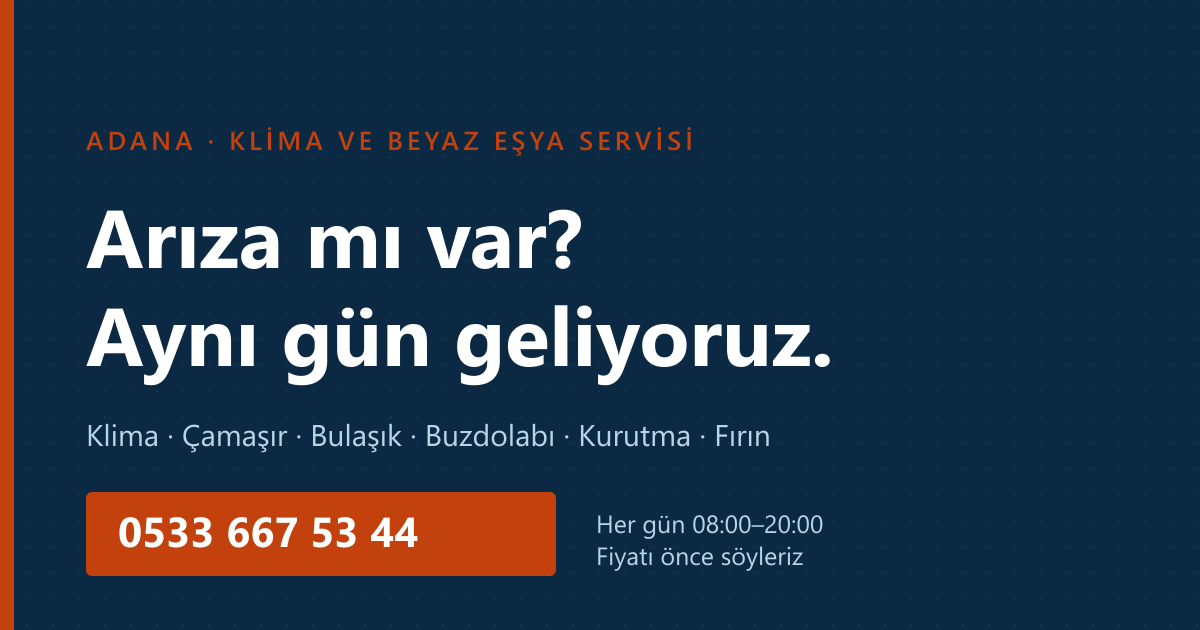
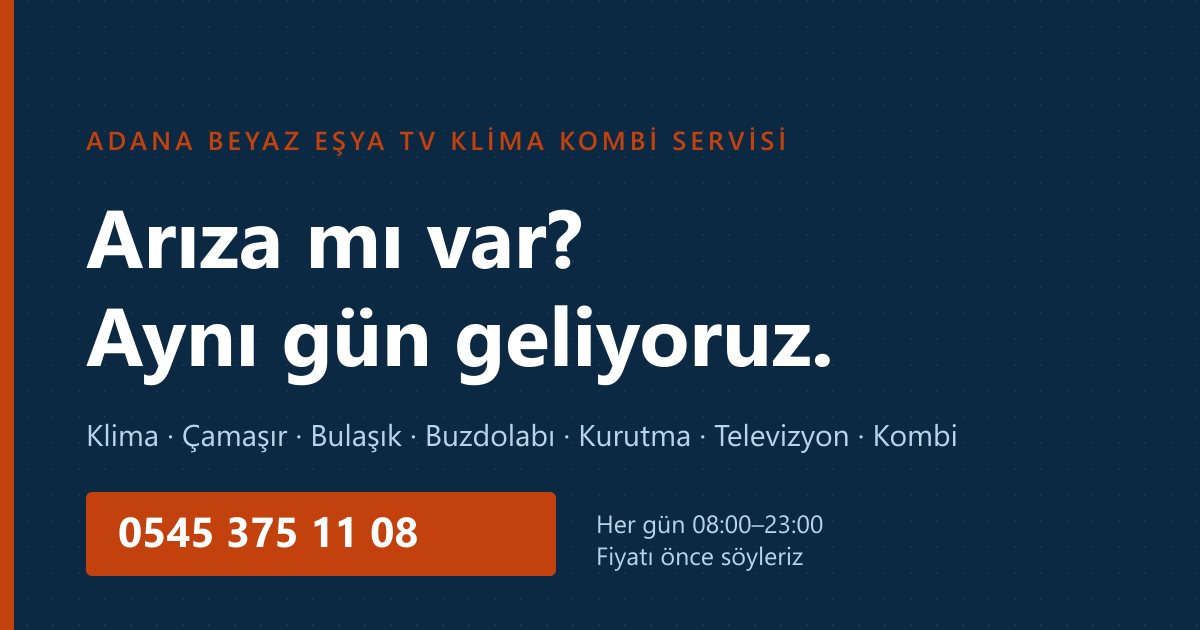
İsim "Adana Beyaz Eşya TV Klima Kombi Servisi", menüye TV, paylaşım görseli yenilendi
Sahibinin isteği. 12.08'de bu isim değişikliği mobilde kesildiği için
elenmişti; isim artık truncate yerine line-clamp-2 — mobilde iki satıra
iniyor, hiçbir genişlikte kesilmiyor, çubuk 65 px'te kaldı. Menüye "TV"
ikinci sıraya eklendi: 1024'te Klima · TV · Çamaşır, 1280'de altısı sığıyor
(iframe ile ölçüldü, çakışma ve taşma 0). En uzun sayfa başlığı 58 karakter.

og.png eskimişti: "Fırın" yazıyordu, TV ve kombi yoktu, saat 20:00'di.
tools/og-uret.mjs artık ad, saat ve cihaz satırını veriden okuyor.

diff --git a/src/lib/types.ts b/src/lib/types.ts
@@ -108,7 +108,7 @@ export interface Firma {
    * kullanılır, ekranda hiçbir yerde basılmaz.
    *
    * `kisaAd`'dan ayrı tutulmasının sebebi ikisinin FARKLI İŞ GÖRMESİ:
-   * - `kisaAd` ("Adana Klima & Beyaz Eşya Servisi") ziyaretçiye ne iş
+   * - `kisaAd` ("Adana Beyaz Eşya TV Klima Kombi Servisi") ziyaretçiye ne iş
    *   yaptığımızı anlatır ve tıklatır — sahibinin açık isteği (29.07.2026).
    * - `isletmeAdi` ("Çağrı Teknik Servis") Google'a KİM olduğumuzu söyler ve
    *   Haritalar profiliyle eşleşmesi gerekir.

diff --git a/src/lib/schema.ts b/src/lib/schema.ts
@@ -89,7 +89,7 @@ export function hvacBusiness(site: URL) {
       iki farklı ad gösterirsek Google site ile profili eşleştirmekte tereddüt
       eder ve bağ zayıflar.
 
-      Ekranda basılan ad bu DEĞİL — orası `kisaAd` ("Adana Klima & Beyaz Eşya
+      Ekranda basılan ad bu DEĞİL — orası `kisaAd` ("Adana Beyaz Eşya TV Klima
       Servisi") ve öyle kalacak (sahibinin kararı, 29.07.2026): ziyaretçiye ne
       iş yaptığımızı anlatan ad tıklatan addır. İkisi farklı iş görüyor.
 

diff --git a/CLAUDE.md b/CLAUDE.md
@@ -480,7 +480,34 @@ arıza/çözümden hemen sonra, çünkü "cihazımda bu arıza var" dedikten son
 soru "benim markama bakıyor mu?" oluyor. Zemini **beyaz**: komşuları zemin ve
 lacivert, renk ritmi bozulmuyor. Ayrıntı D3'te.
 
-**Üst çubuktaki isim `kisaAd`, menü ise CİHAZ ÇEŞİTLİLİĞİ gösterir (12.08.2026).**
+**⚠ 01.10.2026 — İSİM DEĞİŞTİ: `kisaAd` = "Adana Beyaz Eşya TV Klima Kombi
+Servisi"** (sahibinin isteği). Aşağıdaki 12.08 kararının iki gerekçesi
+ölçülerek çözüldü, karar bu yüzden tersine döndü:
+1. **Kesilme:** isim artık `truncate` değil **`line-clamp-2`** — mobilde iki
+   satıra iner ("Adana Beyaz Eşya TV / Klima Kombi Servisi"), **hiçbir
+   genişlikte kesilmiyor.** Çubuk yüksekliği **65 px, değişmedi** (iki satır
+   13 px metin, yanındaki 44 px Ara düğmesinden kısa).
+2. **Diğer kullanımlar:** isim virgülsüz, KVKK satırında ad gibi okunuyor;
+   en uzun sayfa başlığı **58 karakter** ("Talebiniz alındı — …" ve
+   "Sayfa bulunamadı — …"), sınır 60.
+
+Paylaşım görseli (`public/og.png`) da yenilendi; `tools/og-uret.mjs` artık
+ad, saat ve cihaz satırını **veriden** okuyor — görselde fırın kapatıldıktan
+sonra bile "Fırın" kalmıştı. **İsim, saat veya hizmet değişince betiği
+yeniden çalıştırın** (`node tools/og-uret.mjs`), build onu çalıştırmıyor.
+
+**Ölçüm (01.10.2026, gerçek genişlikte iframe, headless Chrome):**
+| Ekran | İsim | Menüde görünen | Çakışma / taşma |
+|---|---|---|---|
+| 360 · 412 px | **2 satır**, kesik değil | (menü mobilde gizli) | 0 |
+| 640 px | 1 satır | — | 0 |
+| **1024 px** | 1 satır | Klima · **TV** · Çamaşır | 0 |
+| 1280 · 1440 px | 1 satır | Klima · TV · Çamaşır · Bulaşık · Buzdolabı · Kombi | 0 |
+
+**Menüye TV eklendi** (sahibinin isteği), ikinci sıraya — 1024 px'te de
+görünsün diye. Bulaşık 1280'e kaydı. Aşağıdaki 12.08 tablosu tarihsel.
+
+**Üst çubuktaki isim `kisaAd`, menü ise CİHAZ ÇEŞİTLİLİĞİ gösterir (12.08.2026 — isim kısmı yukarıda tersine döndü).**
 Sahibi televizyon ve kombinin başlıkta görünmesini istedi. `kisaAd`'ı liste
 hâline getirmek **ölçülerek elendi** — iki ayrı sebeple:
 
@@ -1472,7 +1499,7 @@ düşer.
       **Numara değişince site dışında da bir iş var:** Google İşletme
       Profili'ndeki numara aynı olmalı. Site ile profilin numarası ayrışırsa
       yerel sıralamada güven sinyali zayıflar (D4/G6 tam oradan yürüyor).
-- [x] Sitede görünecek kısa ad — "Adana Klima & Beyaz Eşya Servisi"
+- [x] Sitede görünecek kısa ad — **"Adana Beyaz Eşya TV Klima Kombi Servisi"** (01.10.2026; önceki: "Adana Klima & Beyaz Eşya Servisi")
 - [x] Çalışma saatleri — **"Her gün 08:00–23:00"** (01.10.2026, sahibi). Önceki
       "08:00–20:00" İşletme Profili'yle çelişiyordu (profilde 23:00 yazıyordu,
       doğrusu oymuş). Saat yalnızca `firma.json`'da durur — Seyhan
